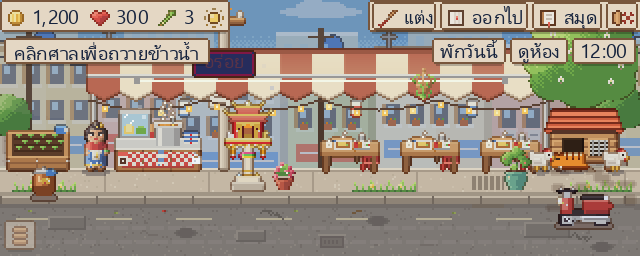
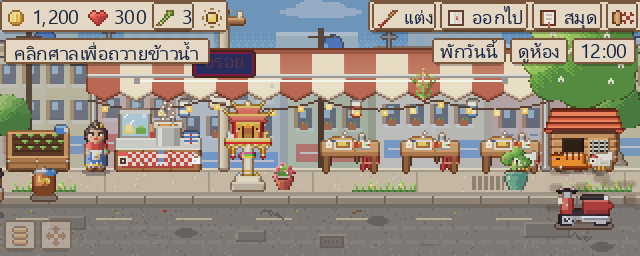
Page text for 0.1.4: English menus, moving the shop, 4x, storage, internet use; new day and night pictures

diff --git a/index.html b/index.html
@@ -149,7 +149,7 @@ document.addEventListener("click", function (e) {
 				<small>ตัวติดตั้ง · Windows 10/11 · 30 MB · ฟรี</small>
 			</a>
 			<div class="alt">
-				<span class="tag" id="version">รุ่น 0.1.3 · รุ่นทดสอบ</span> <a href="https://github.com/intity01/ran-nee-lae-releases/releases/latest">มีอะไรใหม่</a><br>
+				<span class="tag" id="version">รุ่น 0.1.4 · รุ่นทดสอบ</span> <a href="https://github.com/intity01/ran-nee-lae-releases/releases/latest">มีอะไรใหม่</a><br>
 				ไม่อยากติดตั้ง? <a href="https://github.com/intity01/ran-nee-lae-releases/releases/latest/download/RanNeeLae.zip">โหลดแบบ zip</a> (40 MB)<br>
 				มีบน <a href="https://im-shines.itch.io/ran-nee-lae">itch.io</a> ด้วย
 			</div>
@@ -176,7 +176,7 @@ document.addEventListener("click", function (e) {
 				<figcaption>เอาเมาส์ไปใกล้ แถบเมนูก็ขึ้นมาให้กด</figcaption>
 			</figure>
 		</div>
-		<p class="note">เปิดครั้งแรกร้านจะอยู่มุมขวาล่าง ชิดเหนือ taskbar ลากไปวางตรงไหนก็ได้ เกมจำที่ไว้ให้ ถ้าอยากได้ร้านใหญ่ขึ้น ตั้งเป็น 3 เท่าได้ในหน้าตั้งค่า</p>
+		<p class="note">เปิดครั้งแรกร้านจะอยู่มุมขวาล่าง ชิดเหนือ taskbar จะย้ายก็ลากที่ตัวป้า หรือลากปุ่มลูกศรสี่ทางที่มุมซ้ายล่าง เกมจำที่ไว้ให้ ที่ว่างรอบร้านคลิกทะลุไปโปรแกรมข้างหลังได้ ถ้าอยากได้ร้านใหญ่ขึ้น ตั้งได้ถึง 4 เท่าในหน้าตั้งค่า</p>
 	</section>
 
 	<section aria-labelledby="inside">
@@ -203,6 +203,8 @@ document.addEventListener("click", function (e) {
 			<li>ปลูกผักบุ้ง กะเพรา พริก ตะไคร้ เลี้ยงไก่ไว้เอาไข่</li>
 			<li>ขาประจำห้าคนมีชีวิตเดินไปตามวันจริง แก่ลง เปลี่ยนงาน มีเรื่องมาเล่าให้ป้าฟัง</li>
 			<li>ฝน หมอก และลมหนาวเปลี่ยนไปตามฤดูของไทย มีลอยกระทงตามปฏิทินจริง</li>
+			<li>กดตัวเลขผักบนแถบบนเพื่อดูของทั้งหมดในคลัง สมุดของป้านับวันของร้านไว้ให้</li>
+			<li>เมนูและปุ่มเลือกได้ทั้งไทยและอังกฤษ ส่วนเนื้อเรื่องยังเป็นภาษาไทย</li>
 		</ul>
 	</section>
 
@@ -220,13 +222,15 @@ document.addEventListener("click", function (e) {
 		<h2 id="faq">ถามบ่อย</h2>
 		<dl class="faq">
 			<div><dt>อัปเดตยังไง</dt>
-				<dd>ไม่ต้องโหลดใหม่ทั้งเกม ตอนเปิดเกมจะเช็กให้ ถ้ามีรุ่นใหม่จะขึ้นปุ่ม "โหลดอัปเดต" ใต้แถบบน ไฟล์เล็กและเกมตรวจลายเซ็นก่อนใช้ทุกครั้ง ปิดการเช็กได้ในหน้าตั้งค่า</dd></div>
+				<dd>ไม่ต้องโหลดใหม่ทั้งเกม ตอนเปิดเกมจะเช็กให้ ถ้ามีรุ่นใหม่จะขึ้นปุ่ม "โหลดอัปเดต" ใต้แถบบน กดแล้วเปิดเกมใหม่ ไฟล์เล็กและเกมตรวจลายเซ็นก่อนใช้ทุกครั้ง ปิดการเช็กได้ในหน้าตั้งค่า ส่วนตัวติดตั้งบนหน้านี้เป็นรุ่นล่าสุดเสมอ</dd></div>
+			<div><dt>เกมใช้เน็ตทำอะไร</dt>
+				<dd>แค่เช็กอัปเดตตอนเปิดเกม เซฟอยู่ในเครื่องของคุณ ไม่มีการส่งข้อมูลอื่นออกไป</dd></div>
 			<div><dt>ลบเกมแล้วเซฟหายไหม</dt>
 				<dd>ถอนเกมได้ที่ Settings &gt; Apps &gt; ร้านนี้แหละ ตัวถอนจะถามก่อนว่าจะลบเซฟด้วยไหม ถ้าไม่ลบ ติดตั้งใหม่ก็เล่นต่อจากเดิมได้</dd></div>
 			<div><dt>จะรู้ได้ยังไงว่าไฟล์ไม่ถูกแก้</dt>
 				<dd>เทียบค่า SHA-256 ของไฟล์กับ <a href="https://github.com/intity01/ran-nee-lae-releases/releases/latest/download/SHA256SUMS.txt">SHA256SUMS.txt</a> ที่อยู่ในหน้ารีลีส</dd></div>
 			<div><dt>เจอปัญหา หรืออยากบอกอะไร</dt>
-				<dd>เปิดเรื่องไว้ที่ <a href="https://github.com/intity01/ran-nee-lae-releases/issues">หน้า Issues</a> ได้เลย รุ่นนี้เป็นรุ่นทดสอบแรก ทุกความเห็นช่วยได้มาก</dd></div>
+				<dd>เปิดเรื่องไว้ที่ <a href="https://github.com/intity01/ran-nee-lae-releases/issues">หน้า Issues</a> ได้เลย เกมยังเป็นรุ่นทดสอบ ทุกความเห็นช่วยได้มาก</dd></div>
 		</dl>
 	</section>
 

diff --git a/en/index.html b/en/index.html
@@ -135,15 +135,15 @@ document.addEventListener("click", function (e) {
 		<h1>Ran Nee Lae <span lang="th">ร้านนี้แหละ</span></h1>
 		<p class="lede">A cozy pixel Thai restaurant that sits at the edge of your screen all day. Help Auntie turn an empty
 			lot in a small soi into the rice shop the whole street loves.</p>
-		<p class="langnote"><b>The game is in Thai for now.</b> An English version is on the way, starting with the menus,
-			buttons and the first-run tour; the story follows later.</p>
+		<p class="langnote"><b>Menus in English:</b> pick English under Decor &gt; Settings &gt; Language. The menus, buttons,
+			hints and the names of things are translated; the story is still in Thai for now.</p>
 		<div class="till">
 			<a class="buy" id="download" href="https://github.com/intity01/ran-nee-lae-releases/releases/latest/download/RanNeeLae-Setup.exe">
 				<b>Download</b>
 				<small>Installer · Windows 10/11 · 30 MB · Free</small>
 			</a>
 			<div class="alt">
-				<span class="tag" id="version">Version 0.1.3 · test build</span> <a href="https://github.com/intity01/ran-nee-lae-releases/releases/latest">What's new</a><br>
+				<span class="tag" id="version">Version 0.1.4 · test build</span> <a href="https://github.com/intity01/ran-nee-lae-releases/releases/latest">What's new</a><br>
 				Rather not install? <a href="https://github.com/intity01/ran-nee-lae-releases/releases/latest/download/RanNeeLae.zip">Get the zip</a> (40 MB)<br>
 				Also on <a href="https://im-shines.itch.io/ran-nee-lae">itch.io</a>
 			</div>
@@ -170,8 +170,9 @@ document.addEventListener("click", function (e) {
 				<figcaption>Move the mouse close and the menu bar appears.</figcaption>
 			</figure>
 		</div>
-		<p class="note">On first start the shop sits in the bottom-right corner, just above the taskbar. Drag it anywhere and
-			the game remembers. Want it bigger? Set it to 3x in the settings.</p>
+		<p class="note">On first start the shop sits in the bottom-right corner, just above the taskbar. To move it, drag Auntie
+			or the four-arrow button in the bottom-left corner; the game remembers. Clicks on the empty space around the shop go
+			through to the programs behind it. Want it bigger? Set it up to 4x in the settings.</p>
 	</section>
 
 	<section aria-labelledby="inside">
@@ -198,6 +199,7 @@ document.addEventListener("click", function (e) {
 			<li>Grow morning glory, holy basil, chillies and lemongrass; keep hens for eggs.</li>
 			<li>Five regulars live their lives on real days: they grow older, change jobs and come to tell Auntie about it.</li>
 			<li>Rain, morning mist and the cool wind follow the Thai seasons, and Loy Krathong comes on the real calendar.</li>
+			<li>Press the vegetable count on the top bar to see everything in storage; Auntie's notebook counts the shop's days.</li>
 		</ul>
 	</section>
 
@@ -217,7 +219,10 @@ document.addEventListener("click", function (e) {
 			<div><dt>How do updates work?</dt>
 				<dd>No need to download the whole game again. The game checks when it starts; if there is a new version a
 					"โหลดอัปเดต" (download update) button appears under the top bar. Updates are small and signed, and the game
-					checks the signature every time. You can turn the check off in the settings.</dd></div>
+					checks the signature every time. Press it, then restart the game. You can turn the check off in the settings. The
+					installer on this page is always the newest version.</dd></div>
+			<div><dt>What does the game use the internet for?</dt>
+				<dd>Only to check for updates when it starts. Your save stays on your computer and nothing else is sent.</dd></div>
 			<div><dt>Will I lose my save if I uninstall?</dt>
 				<dd>Uninstall from Settings &gt; Apps &gt; ร้านนี้แหละ. The uninstaller asks whether to delete the save; keep it
 					and a reinstall carries on where you left off.</dd></div>
@@ -225,7 +230,7 @@ document.addEventListener("click", function (e) {
 				<dd>Compare the SHA-256 of your file with <a href="https://github.com/intity01/ran-nee-lae-releases/releases/latest/download/SHA256SUMS.txt">SHA256SUMS.txt</a> on the releases page.</dd></div>
 			<div><dt>Found a problem, or want to say something?</dt>
 				<dd>Open an issue on the <a href="https://github.com/intity01/ran-nee-lae-releases/issues">Issues page</a>,
-					in English or Thai. This is the first test build, so every note helps a lot.</dd></div>
+					in English or Thai. The game is still a test build, so every note helps a lot.</dd></div>
 		</dl>
 	</section>
 
